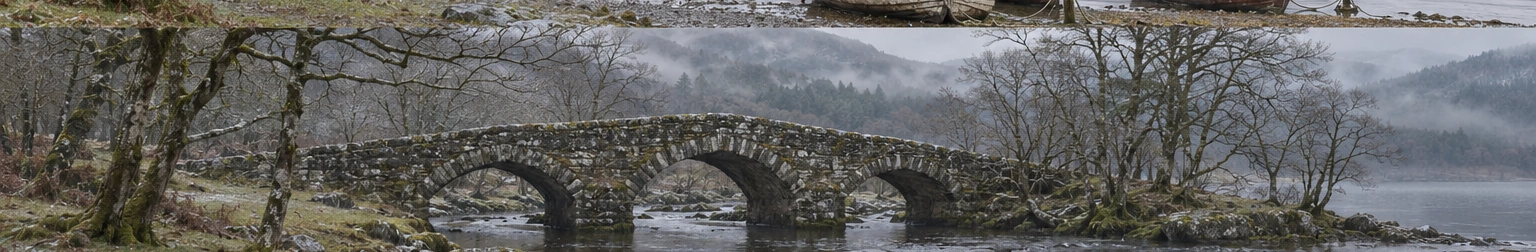
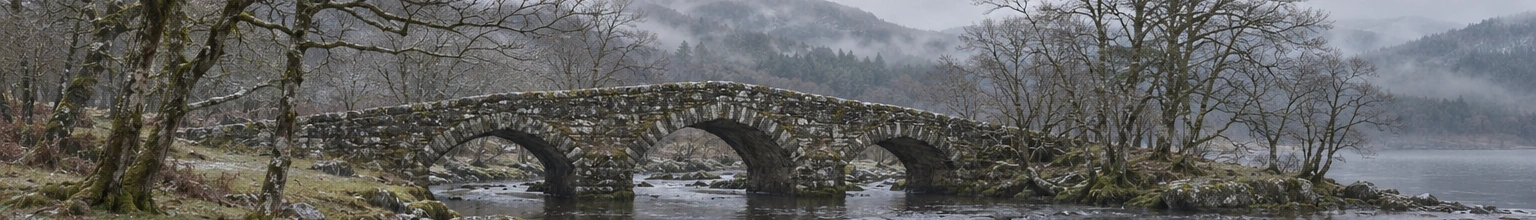
Ground journey landmarks in the landscape and refine weather and tunnel motion

diff --git a/js/window.js b/js/window.js
@@ -80,7 +80,7 @@ export class WindowRenderer {
   _assetsOf(it) { const s = it?.scene; if (!s) return []; return [s.backdrop, s.mid, s.near, s.landmark?.src, s.landmark?.type === 'tunnel' && this.cfg.tunnelWall, this.crossings[s.exitCut]].filter(Boolean); }
   /** Which cruise item is current; preloads its assets and the next few, frees the rest. */
   setItem(idx) {
-    this.idx = idx; const items = this.plan.items, want = new Set([this.cfg.frame?.src, this.frame?.src]);
+    this.idx = idx; const items = this.plan.items, want = new Set([this.frame.src, this.cfg.glassReflection]);
     const seen = new Set(); for (let i = Math.max(0, idx - 1); i < items.length && seen.size < 3; i++) { if (items[i].kind !== "cruise") continue; seen.add(items[i].scene); this._assetsOf(items[i]).forEach(a => want.add(a)); }
     this._assetsOf(items[idx - 1]).forEach(a => want.add(a));
     want.forEach(a => a && this._img(a));
@@ -190,10 +190,17 @@ export class WindowRenderer {
     if (lm && lm.type === 'tunnel') this._tunnel(it, lm, pos, F);
     if (arriving) this._crossing(arriving, pos - it.start);
     if (departing) this._crossing(departing, pos - it.end);
-    // light: slow cloud drift + glass vignette
-    c.fillStyle = `rgba(0,0,0,${0.05 + 0.05 * Math.sin(pos * 0.047)})`; c.fillRect(P.x, P.y, P.w, P.h);
+    // Exterior exposure changes slowly as patches of cloud pass.
+    c.fillStyle = `rgba(0,0,0,${0.033 + 0.011 * Math.sin(pos * 0.031) + 0.008 * Math.sin(pos * 0.073)})`; c.fillRect(P.x, P.y, P.w, P.h);
     const g = c.createRadialGradient(P.x + P.w / 2, P.y + P.h / 2, P.h * 0.35, P.x + P.w / 2, P.y + P.h / 2, P.w * 0.62);
     g.addColorStop(0, 'rgba(8,10,14,0)'); g.addColorStop(1, 'rgba(8,10,14,0.42)'); c.fillStyle = g; c.fillRect(P.x, P.y, P.w, P.h);
+    const reflection = this._img(this.cfg.glassReflection);
+    if (reflection?.ok) {
+      // Screen blending lets the lamp register in dark masonry and recede in bright sky.
+      c.globalCompositeOperation = 'screen';
+      c.globalAlpha = 0.085;
+      c.drawImage(reflection.img, P.x + P.w * .073, P.y + P.h * .095, P.h * .20, P.h * .233);
+    }
     c.restore();
     if (this.frame.ok) c.drawImage(this.frame.img, 0, 0, this.W, this.H);
   }
@@ -223,50 +230,72 @@ export class WindowRenderer {
   }
   _tunnel(it, lm, pos, F) {
     const win = this._landmarkWindow(it); if (!win) return; const t = pos - win[0], dur = win[1] - win[0]; if (t < -1 || t > dur + 1) return;
-    const d = smooth(t / 3) * smooth((dur - t) / 3), c = this.c, P = this.pane;
+    const c = this.c, P = this.pane;
+    // A fixed portal sweeps across the window in the same direction as trackside scenery.
+    const travel = 235 * P.h / 720;
+    const left = Math.max(0, P.w - (F - this.dist(win[0])) * travel);
+    const right = Math.min(P.w, (this.dist(win[1]) - F) * travel);
+    if (right <= left) return;
+    c.save();
+    c.beginPath(); c.rect(P.x + left, P.y, right - left, P.h); c.clip();
     const wall = this._img(this.cfg.tunnelWall);
-    if (wall?.ok) this._tile(wall, 235, F, 0, d, 'source-over');
-    c.fillStyle = `rgba(6,9,12,${(wall?.ok ? .76 : .97) * d})`;
+    if (wall?.ok) this._tile(wall, 235, F, 0, 1, 'source-over');
+    c.fillStyle = wall?.ok ? 'rgba(6,9,12,.67)' : '#0f1417';
     c.fillRect(P.x, P.y, P.w, P.h);
-    if (d < .01) return;
-    const radius = P.h * .32, period = P.w * 1.32;
+    const radius = P.h * .32, period = P.w + radius * 2;
     const x = P.x + P.w + radius - mod(F * 235 * P.h / 720, period);
     const y = P.y + P.h * .43;
     const glow = c.createRadialGradient(x, y, 0, x, y, radius);
-    glow.addColorStop(0, `rgba(224,158,77,${.32 * d})`);
+    glow.addColorStop(0, 'rgba(224,158,77,.32)');
     glow.addColorStop(1, 'rgba(224,158,77,0)');
     c.fillStyle = glow; c.fillRect(x-radius,y-radius,radius*2,radius*2);
-    c.fillStyle = `rgba(22,22,20,${d})`;
+    c.fillStyle = '#161614';
     c.fillRect(x-5,y-9,10,18);
-    c.fillStyle = `rgba(246,194,114,${.90*d})`;
+    c.fillStyle = 'rgba(246,194,114,.90)';
     c.fillRect(x-2.5,y-6,5,11);
+    c.restore();
   }
   _weather(S, pv, a, pos, F, sp) {
     const c = this.c, P = this.pane, R = P.h / 720;
     const dens = (k) => { const cur = S.weather?.[k] || 0, old = pv ? (pv.weather?.[k] || 0) : cur; return old + (cur - old) * a; };
     const rain = dens('rain'), snow = dens('snow');
     if (rain > 0.01) {
-      const N = Math.round(150 * rain), spd = Math.max(0.25, sp);
-      c.strokeStyle = 'rgba(205,220,238,0.33)'; c.lineWidth = Math.max(1, R * 1.1); c.beginPath();
-      for (let i = 0; i < N; i++) {
-        const sy = (520 + 420 * hash(i, 2)) * R, len = (10 + 20 * hash(i, 3)) * R, slant = (0.22 + 0.5 * spd * 0.35) * len;
-        const x = mod(hash(i, 1) * (P.w + 80) - (F * 34 + pos * 6) * R, P.w + 80) - 40, y = mod(hash(i, 4) * (P.h + 60) + pos * sy, P.h + 60) - 30;
-        c.moveTo(P.x + x, P.y + y); c.lineTo(P.x + x - slant, P.y + y + len);
+      // Airborne streaks share the direction of the passing scenery. Near drops
+      // cross the view faster and leave a longer exposure than distant drizzle.
+      for (let depth = 0; depth < 3; depth++) {
+        c.strokeStyle = `rgba(202,216,224,${.10 + depth * .045})`;
+        c.lineWidth = (.65 + depth * .32) * R;
+        c.beginPath();
+        for (let i = depth; i < Math.round(170 * rain); i += 3) {
+          const vy = (420 + depth * 140 + hash(i, 2) * 110) * R;
+          const vx = (130 + depth * 85) * R;
+          const x = P.x + mod(hash(i, 1) * P.w - F * vx - pos * 24 * R, P.w + 32) - 16;
+          const y = P.y + mod(hash(i, 4) * P.h + pos * vy, P.h + 40) - 20;
+          c.moveTo(x, y); c.lineTo(x - (vx * sp + 24 * R) / 58, y + vy / 58);
+        }
+        c.stroke();
       }
-      c.stroke();
-      // slow beads running down the glass
-      c.fillStyle = 'rgba(220,232,245,0.20)'; c.strokeStyle = 'rgba(220,232,245,0.10)'; c.lineWidth = R;
-      for (let i = 0; i < Math.round(16 * rain); i++) {
-        const bx = P.x + hash(i, 7) * P.w, by = P.y + mod(hash(i, 8) * P.h + pos * (7 + 9 * hash(i, 9)) * R, P.h), r = (1.6 + 2.2 * hash(i, 5)) * R;
-        c.beginPath(); c.moveTo(bx, by - 26 * R * hash(i, 6)); c.lineTo(bx, by); c.stroke(); c.beginPath(); c.ellipse(bx, by, r * 0.8, r * 1.2, 0, 0, 7); c.fill();
+      // Water pinned to the glass collects, slides, then pauses at a fresh spot.
+      for (let i = 0; i < Math.round(23 * rain); i++) {
+        const cycle = pos / (9 + 9 * hash(i, 9)) + hash(i, 6);
+        const step = Math.floor(cycle);
+        const fraction = cycle - step;
+        const run = step + smooth((fraction - .55) / .34);
+        const y = P.y + mod(hash(i, 8) * P.h + run * (14 + 32 * hash(i, 3)) * R, P.h);
+        const x = P.x + hash(i, 7) * P.w + R * Math.sin(run * .87 + i);
+        const radius = (.8 + 1.7 * hash(i, 5)) * R;
+        c.fillStyle = 'rgba(19,31,39,.23)';
+        c.beginPath(); c.ellipse(x, y, radius, radius * 1.35, 0, 0, 7); c.fill();
+        c.fillStyle = 'rgba(233,239,238,.52)';
+        c.beginPath(); c.arc(x - radius * .21, y + radius * .46, radius * .45, 0, 7); c.fill();
       }
     }
     if (snow > 0.01) {
-      const N = Math.round(130 * snow); c.fillStyle = 'rgba(244,248,255,0.85)';
+      const N = Math.round(175 * snow); c.fillStyle = 'rgba(244,248,255,0.85)';
       for (let i = 0; i < N; i++) {
-        const z = hash(i, 11), r = (0.9 + 2.4 * z) * R, vx = (30 + 150 * z) * R, vy = (22 + 40 * z) * R;
-        const x = mod(hash(i, 12) * (P.w + 60) - (F * .8 + pos * .2) * vx + Math.sin(pos * 0.7 + i) * 8 * R, P.w + 60) - 30, y = mod(hash(i, 13) * (P.h + 40) + pos * vy, P.h + 40) - 20;
-        c.globalAlpha = 0.35 + 0.55 * z; c.beginPath(); c.arc(P.x + x, P.y + y, r, 0, 7); c.fill();
+        const z = hash(i, 11), r = (0.55 + 1.7 * z) * R, vx = (30 + 150 * z) * R, vy = (22 + 40 * z) * R;
+        const x = mod(hash(i, 12) * (P.w + 60) - (F * .8 + pos * .2) * vx + (Math.sin(pos * .33 + i) * 6 + Math.sin(pos * .18) * (12 + 35 * z) * snow) * R, P.w + 60) - 30, y = mod(hash(i, 13) * (P.h + 40) + pos * vy, P.h + 40) - 20;
+        c.globalAlpha = 0.35 + 0.55 * z; c.beginPath(); c.ellipse(P.x + x, P.y + y, r * (1 + z * snow), r * .70, -.42, 0, 7); c.fill();
       }
       c.globalAlpha = 1;
     }

diff --git a/sw.js b/sw.js
@@ -2,7 +2,7 @@
 // shadowed by stale JS or a stale manifest (v3 and older served the old shell first, which paired old player
 // code with the new schema-2 manifest => no video chain and no music). Media (mp4/mp3) is deliberately NOT
 // intercepted: iOS needs HTTP Range responses for <video>/<audio>, which Cache API replays badly.
-const VER = 'ws-v12';
+const VER = 'ws-v13';
 const SHELL = ['./', 'index.html', 'manifest.webmanifest', 'css/app.css', 'js/app.js', 'js/engine.js', 'js/audio.js', 'js/scenes.js',
   'js/player.js', 'js/window.js', 'js/journey.js', 'js/sync.js', 'js/request.js', 'js/config.js', 'icons/icon-192.png', 'icons/icon-512.png', 'icons/apple-touch-icon.png',
   'themes/index.json', 'themes/dark-academia-train/manifest.json',

diff --git a/tools/hollowmere_route.py b/tools/hollowmere_route.py
@@ -31,6 +31,7 @@ def extend_route(manifest):
                 view['backdrop'] = 'zones/city/docks-bg.webp'
 
     refine_platforms_and_terrain(manifest)
+    integrate_landmarks(manifest)
 
 
 def refine_platforms_and_terrain(manifest):
@@ -50,6 +51,19 @@ def refine_platforms_and_terrain(manifest):
         view.pop('mid', None)
         if view['id'] in ('m4', 'college-road', 'lamplit-cottages'):
             view['near'] = forest['near']
+
+
+def integrate_landmarks(manifest):
+    manifest['version'] = 9
+    manifest['render']['glassReflection'] = 'frame/sconce-reflection.webp'
+    plates = {'c2': 'clocktower-roofs', 'l2': 'abbey-shore',
+              'f4': 'chapel-wood', 'm1': 'ravine-viaduct', 'm3': 'monastery-ledge'}
+    for leg in manifest['legs']:
+        for view in leg['segments']:
+            if view['id'] in plates:
+                view['backdrop'] = f"zones/{leg['id']}/{plates[view['id']]}.webp"
+                view.pop('landmark', None)
+                view.pop('mid', None)
 
 
 VIEWS = [
